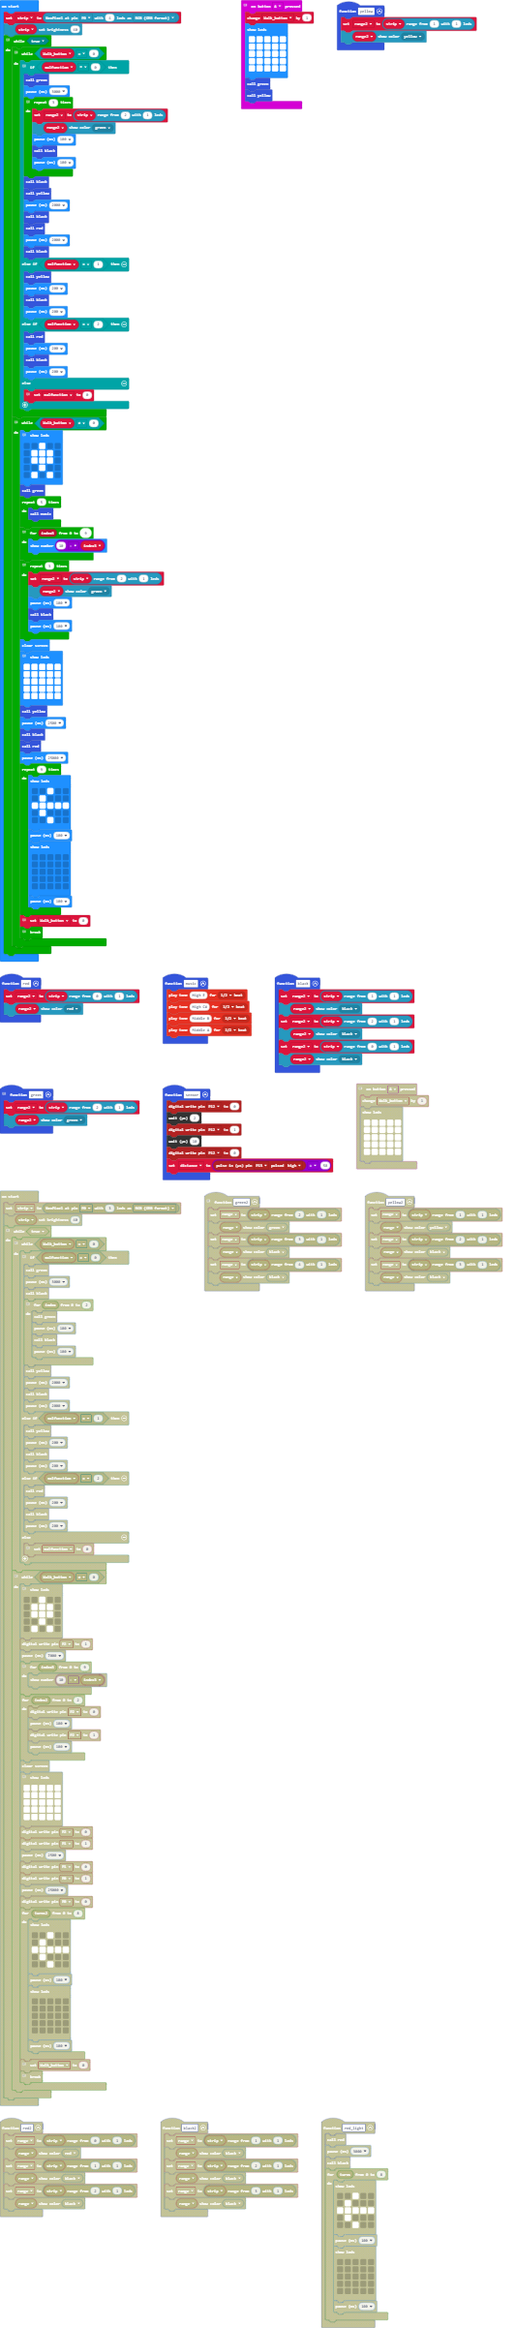
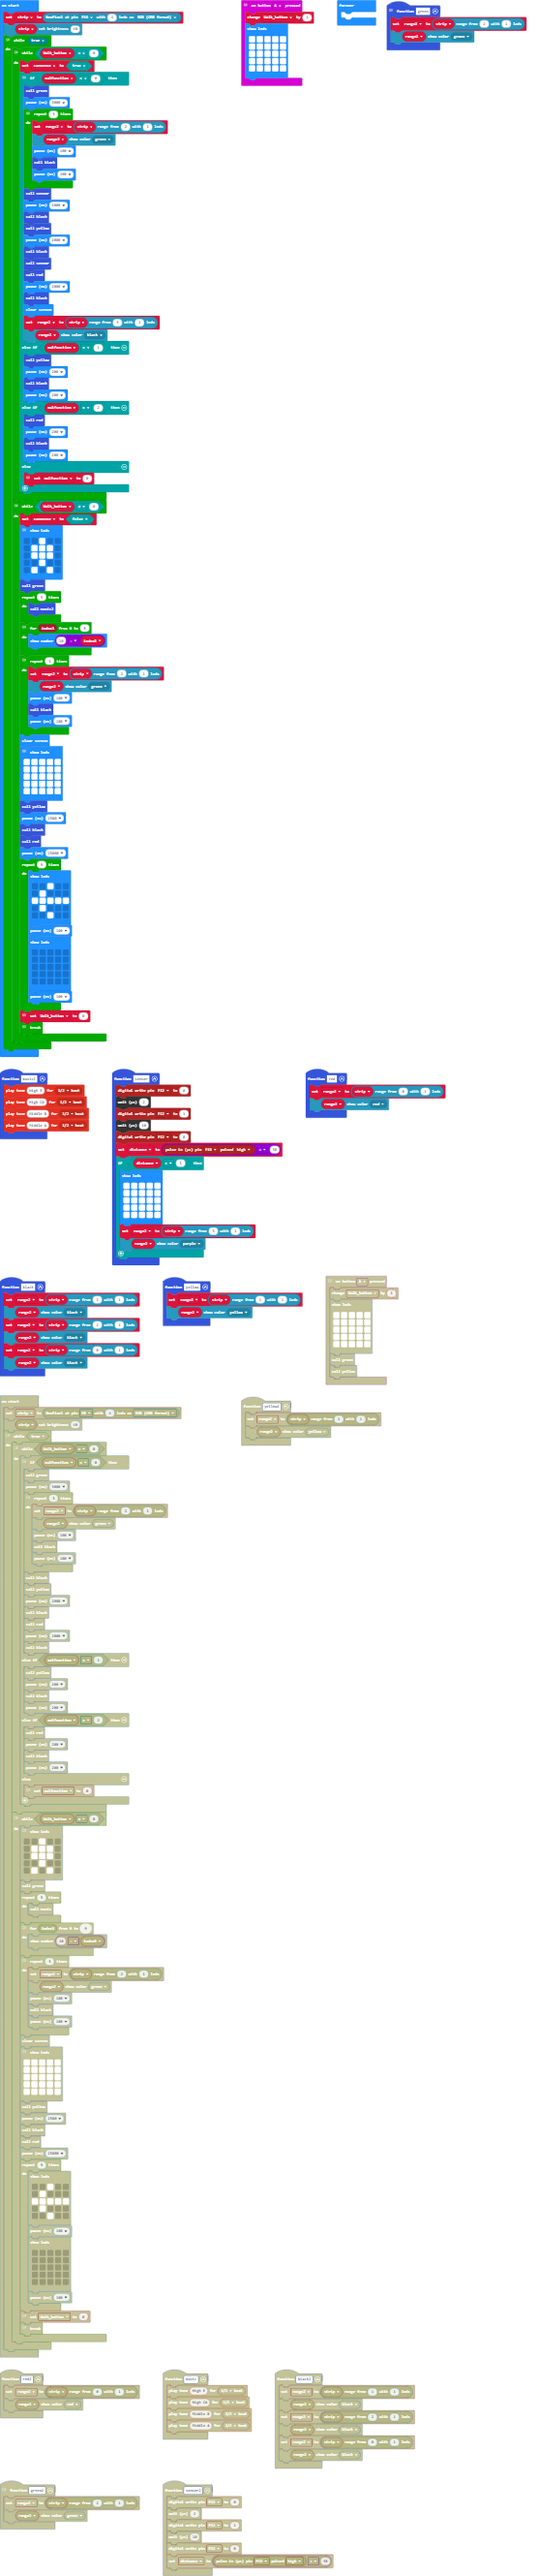
Update main.blocks, main.ts

Changed region(s): [[0.0, 0.0, 0.9925, 0.9983], [0.3008, 0.9047, 0.782, 1.0], [0.4211, 0.0, 0.9624, 0.0624]]

diff --git a/main.ts b/main.ts
@@ -13,15 +13,7 @@ input.onButtonPressed(Button.A, function () {
         # # # # #
         # # # # #
         `)
-    green()
-    yellow()
 })
-function music2 () {
-    music.playTone(659, music.beat(BeatFraction.Half))
-    music.playTone(554, music.beat(BeatFraction.Half))
-    music.playTone(494, music.beat(BeatFraction.Half))
-    music.playTone(440, music.beat(BeatFraction.Half))
-}
 input.onButtonPressed(Button.AB, function () {
     control.reset()
 })
@@ -52,18 +44,37 @@ function sensor () {
     control.waitMicros(10)
     pins.digitalWritePin(DigitalPin.P12, 0)
     distance = pins.pulseIn(DigitalPin.P13, PulseValue.High) / 58
+    if (distance < 5) {
+        basic.showLeds(`
+            # # # # #
+            # # # # #
+            # # # # #
+            # # # # #
+            # # # # #
+            `)
+        range2 = strip.range(3, 1)
+        range2.showColor(neopixel.colors(NeoPixelColors.Purple))
+    }
+}
+function music2 () {
+    music.playTone(659, music.beat(BeatFraction.Half))
+    music.playTone(554, music.beat(BeatFraction.Half))
+    music.playTone(494, music.beat(BeatFraction.Half))
+    music.playTone(440, music.beat(BeatFraction.Half))
 }
 let distance = 0
 let range2: neopixel.Strip = null
 let malfunction = 0
+let cansense = false
 let Walk_button = 0
 let strip: neopixel.Strip = null
-strip = neopixel.create(DigitalPin.P0, 4, NeoPixelMode.RGB)
+strip = neopixel.create(DigitalPin.P16, 4, NeoPixelMode.RGB)
 strip.setBrightness(40)
 // This is to make the code to run forever, because it is always true therefore it will run forever.
 while (true) {
     // This code will only run and loop if the variable (Walk_button) is 0.
     while (Walk_button == 0) {
+        cansense = true
         // This is scenario 1, this is for normal mode for a light.
         if (malfunction == 0) {
             green()
@@ -76,13 +87,19 @@ while (true) {
                 black()
                 basic.pause(100)
             }
+            sensor()
+            basic.pause(1000)
             black()
             yellow()
             basic.pause(2000)
             black()
+            sensor()
             red()
             basic.pause(2000)
             black()
+            basic.clearScreen()
+            range2 = strip.range(3, 1)
+            range2.showColor(neopixel.colors(NeoPixelColors.Black))
         } else if (malfunction == 1) {
             yellow()
             basic.pause(200)
@@ -100,6 +117,7 @@ while (true) {
     }
     // This is the other loop, if you press the A button which is the variable Walk_button. it runs if the variable doesn't equal 0. The code is the same except there are some tiny changes.
     while (Walk_button != 0) {
+        cansense = false
         // It will show a person icon so that it means it means that you can walk.
         basic.showLeds(`
             . . # . .
@@ -162,6 +180,9 @@ while (true) {
         break;
     }
 }
+basic.forever(function () {
+	
+})
 control.inBackground(function () {
     if (malfunction != 0 && Walk_button != 0) {
         malfunction = 0
